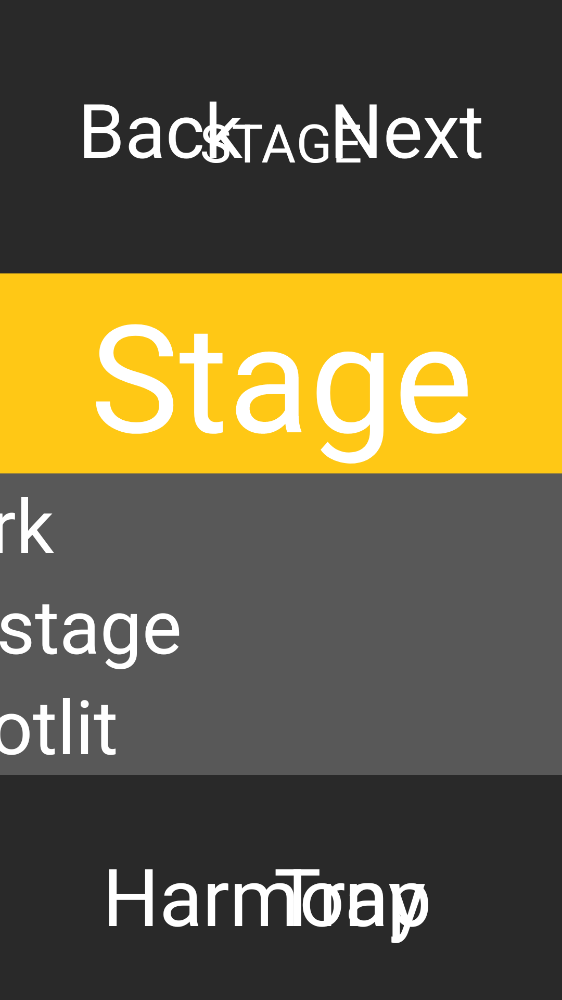
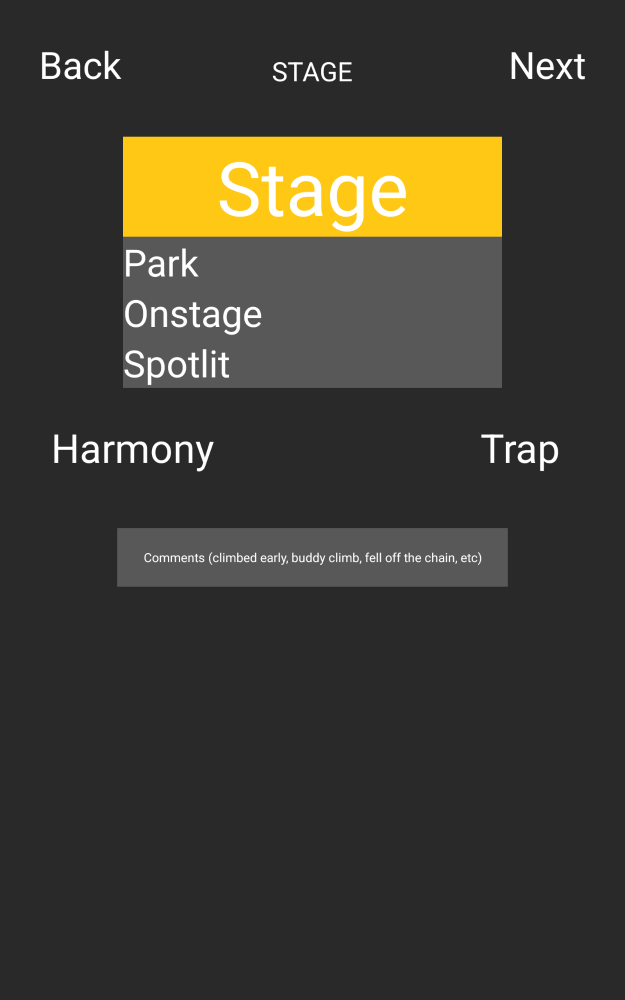
Fix tablet screenshots and correct 2025 rewrite description (#5)
* Fix tablet screenshots and correct 2025 rewrite description

Screenshots:
- Re-render all 6 screens with DeviceConfig.NEXUS_10 tablet config
- Convert screenshot test from Java to Kotlin for proper Paparazzi API usage
- Previous phone-sized renders had severe overlap/clipping issues

README fix:
- Correct the '2025 Rewrite (Flutter + SQL)' section
- QR scanning was NOT eliminated - Flutter apps still generate QR codes
- Add: scanned into Python/customtkinter desktop intake app
- Add: SQLite instead of Excel tabs for SQL queries
- Remove incorrect claims about eliminating QR workflow and real-time sync

Build changes:
- Add Kotlin plugin (1.9.22) for Paparazzi test
- Add kotlinOptions jvmTarget = 17
- Add kotlin-test-junit dependency

* Fix screenshots: use portrait orientation (800x1280dp)

- Change DeviceConfig.NEXUS_10 to portrait via .copy(orientation = PORTRAIT)
- Landscape had field image overlapping Driver Station list on main screen
- Portrait matches the team's actual portrait-locked tablets

All 6 screens verified:
- Main: No overlap between Driver Station and field diagram
- Auto/Tele/Stage: Proper spacing, all elements visible
- Popup: NO/Yes buttons properly separated
- QR: Clean layout with generated QR code

---------

diff --git a/app/src/test/kotlin/com/example/scouting_app_2024/screenshots/ScreenshotTest.kt b/app/src/test/kotlin/com/example/scouting_app_2024/screenshots/ScreenshotTest.kt
@@ -1,0 +1,95 @@
+package com.example.scouting_app_2024.screenshots
+
+import android.view.LayoutInflater
+import android.widget.ImageView
+import app.cash.paparazzi.DeviceConfig
+import app.cash.paparazzi.Paparazzi
+import com.android.resources.ScreenOrientation
+import com.example.qrgenearator.QRGContents
+import com.example.qrgenearator.QRGEncoder
+import com.example.scouting_app_2024.R
+import com.example.scouting_app_2024.RecordsActivity
+import org.junit.Rule
+import org.junit.Test
+
+class ScreenshotTest {
+
+    @get:Rule
+    val paparazzi = Paparazzi(
+        deviceConfig = DeviceConfig.NEXUS_10.copy(orientation = ScreenOrientation.PORTRAIT)
+    )
+
+    @Test
+    fun main_activity() {
+        val view = LayoutInflater.from(paparazzi.context)
+            .inflate(R.layout.activity_main, null)
+        paparazzi.snapshot(view, "main")
+    }
+
+    @Test
+    fun auto_activity() {
+        val view = LayoutInflater.from(paparazzi.context)
+            .inflate(R.layout.activity_auto, null)
+        paparazzi.snapshot(view, "auto")
+    }
+
+    @Test
+    fun tele_activity() {
+        val view = LayoutInflater.from(paparazzi.context)
+            .inflate(R.layout.activity_tele, null)
+        paparazzi.snapshot(view, "tele")
+    }
+
+    @Test
+    fun stage_activity() {
+        val view = LayoutInflater.from(paparazzi.context)
+            .inflate(R.layout.activity_stage, null)
+        paparazzi.snapshot(view, "stage")
+    }
+
+    @Test
+    fun popup_activity() {
+        val view = LayoutInflater.from(paparazzi.context)
+            .inflate(R.layout.activity_popup, null)
+        paparazzi.snapshot(view, "popup")
+    }
+
+    @Test
+    fun qr_activity() {
+        RecordsActivity.Info.scoutName = "Demo Scout"
+        RecordsActivity.Info.matchNumber = "42"
+        RecordsActivity.Info.teamNumber = "99901"
+        RecordsActivity.Info.preload = true
+        RecordsActivity.Info.driverStation = 1
+        RecordsActivity.Info.fieldPosition = 2
+        RecordsActivity.Info.leave = true
+        RecordsActivity.Info.autoNotes = 3
+        RecordsActivity.Info.autoAmpNotes = 1
+        RecordsActivity.Info.autoSpeakerNotes = 2
+        RecordsActivity.Info.autoComments = "Clean auto"
+        RecordsActivity.Info.teleNotes = 8
+        RecordsActivity.Info.teleAmpNotes = 3
+        RecordsActivity.Info.teleSpeakerNotes = 5
+        RecordsActivity.Info.teleComments = "Fast cycles"
+        RecordsActivity.Info.stageLevel = 2
+        RecordsActivity.Info.harmony = true
+        RecordsActivity.Info.trap = false
+        RecordsActivity.Info.stageComments = "Climbed early"
+
+        val view = LayoutInflater.from(paparazzi.context)
+            .inflate(R.layout.activity_qr, null)
+
+        val json = RecordsActivity.Info.CreateJSON()
+        val qrgEncoder = QRGEncoder(json, null, QRGContents.Type.TEXT, 200)
+        qrgEncoder.colorBlack = 0xFF292929.toInt()
+        qrgEncoder.colorWhite = 0xFFffc815.toInt()
+        val bitmap = qrgEncoder.bitmap
+
+        val qrImage = view.findViewById<ImageView>(R.id.qrImageView)
+        if (qrImage != null && bitmap != null) {
+            qrImage.setImageBitmap(bitmap)
+        }
+
+        paparazzi.snapshot(view, "qr")
+    }
+}

diff --git a/README.md b/README.md
@@ -220,11 +220,11 @@ This Java/Android + QR-to-Excel pipeline worked reliably for the 2024 season, bu
 
 **2025 Rewrite (Flutter + SQL):**
 
-In 2025, I rebuilt the entire scouting system in **Dart/Flutter** with a local **SQLite** database:
-- Cross-platform (Android + iOS from single codebase)
-- Local database eliminates QR scanning workflow
-- Real-time data sync capabilities
-- Offline-first architecture with persistent storage
+In 2025, I rebuilt the scouting apps in **Dart/Flutter** with **SQLite** for data storage:
+- Cross-platform Flutter apps (one codebase for Android + iOS)
+- Same QR transfer workflow, but scanned into a Python/customtkinter desktop intake app that validates each record
+- SQLite instead of Excel tabs, so strategy questions become SQL queries
+- Offline-first architecture with persistent storage on device
 
 See the [FRC Scouting Organization](https://github.com/aamir-frc-scouting) for the 2025 apps and other scouting tools.
 
